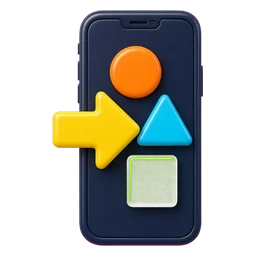
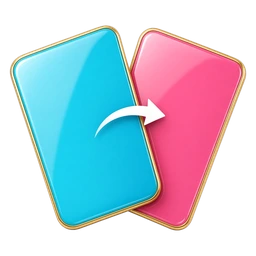
Mosaico Vila Ética: ícones 3D do Momento do Lazer, da memória, do Genius e do glossário (pasta Cell atualizada)
Os provisórios ficaram com o sufixo _SUBSTITUIDO_2026-11-14; origens em assets/icones/origens.json.

Claude-Session: https://claude.ai/code/session_01WHDQMuMbetW4TJGK2hXLga

diff --git a/mosaico-vila-etica/js/views/lazer.js b/mosaico-vila-etica/js/views/lazer.js
@@ -60,10 +60,10 @@ function exibicao(g, t) {
 export function renderLazer(st, id, loc) {
   const tipo = st.lazer?.tipo || "memoria", lz = loc.lz && loc.lz.tipo === tipo ? loc.lz : null, t = agora();
   const meu = st.lazer?.res?.[id]?.pontos || 0;
-  const cab = `<h2 class="row">${ico(tipo === "memoria" ? "lazer-memoria" : "lazer-genius", "g")}Momento do Lazer</h2>`;   // ícones provisórios (ver docs/ICONES-PROMPTS.md)
+  const cab = `<h2 class="row">${ico("lazer", "g")}Momento do Lazer</h2>`;
   if (!lz) {
     return cab + `<div class="card"><p class="muted" style="margin:0">Desde a Idade Média, o trabalho virou virtude e o ócio, vício (a preguiça): daí a dificuldade de aceitar o lazer. Aqui, o lazer também ensina.</p></div>
-      <div class="card"><b>${tipo === "memoria" ? `Jogo da memória: ${PARES_MEMORIA} pares` : `Genius: ${BOTOES_GENIUS} botões`}</b>
+      <div class="card"><b class="row">${ico(tipo === "memoria" ? "lazer-memoria" : "lazer-genius")}${tipo === "memoria" ? `Jogo da memória: ${PARES_MEMORIA} pares` : `Genius: ${BOTOES_GENIUS} botões`}</b>
       <p class="muted" style="margin:6px 0 0">${tipo === "memoria" ? "Ache os pares: cada termo com a sua pista. Os termos são os do glossário que a vila já abriu." : "Repita a sequência de cores. A cor de cada botão é uma categoria do glossário e fica fixa; o termo dentro dela muda a cada rodada."}</p>
       <p class="faint" style="margin:6px 0 0">Quem chega a ${ALVO_LAZER} ${tipo === "memoria" ? "pares" : "rodadas"} dá 1 ponto ao bem público da vila (menos, proporcional). Você tem ${TEMPO_LAZER} s.</p></div>
       <button class="btn ok block" data-a="lz-comecar">Começar</button>`;

diff --git a/mosaico-vila-etica/js/views/aluno.js b/mosaico-vila-etica/js/views/aluno.js
@@ -38,7 +38,7 @@ function telaGlossario(st, loc) {
       ${vs.map((v) => `<button class="glos-item ${loc.verb === v.id ? "aberto" : ""}" data-a="verb" data-val="${v.id}"><span class="row" style="gap:6px"><b>${esc(v.termo)}</b>${v.autor ? `<span class="faint">${esc(v.autor)}</span>` : ""}${novos.has(v.id) ? `<span class="novo">novo</span>` : ""}<span class="grow"></span><span aria-hidden="true">${loc.verb === v.id ? "▴" : "▾"}</span></span>${loc.verb === v.id ? `<span class="glos-def">${esc(v.def)}</span>` : ""}</button>`).join("")}</div>`;
   }).join("");
   const faltam = GLOSSARIO.length - abertos.length;
-  return `<h2 class="row">${ico("ideia", "g")}Glossário de ética</h2><p class="faint" style="margin:0">${abertos.length} verbetes abertos${faltam ? `; ${faltam} se abrem conforme a vila avança` : ""}. Toque num termo para ver a definição.</p>${grupos}
+  return `<h2 class="row">${ico("glossario", "g")}Glossário de ética</h2><p class="faint" style="margin:0">${abertos.length} verbetes abertos${faltam ? `; ${faltam} se abrem conforme a vila avança` : ""}. Toque num termo para ver a definição.</p>${grupos}
     <button class="btn ok block" data-a="glos">Voltar ao jogo</button>`;
 }
 

diff --git a/mosaico-vila-etica/js/views/telao.js b/mosaico-vila-etica/js/views/telao.js
@@ -456,7 +456,7 @@ export function paineisResultado(st) {
 function faixaConceitos(ids, extra = "") {
   const vs = ids.map(verbete).filter(Boolean);
   if (!vs.length) return "";
-  return `<div class="conceitos"><span class="conc-rot">${ico("ideia")}Conceitos</span>${vs.map((v) => `<span class="chip conceito" style="--c:${CATEGORIAS[v.cat]?.cor || "#a78bfa"}"><b>${esc(v.termo)}</b>${v.autor && !/\d/.test(v.autor) ? ` · ${esc(v.autor)}` : ""}</span>`).join("")}<span class="conc-fim">${extra || "no glossário do celular"}</span></div>`;
+  return `<div class="conceitos"><span class="conc-rot">${ico("glossario")}Conceitos</span>${vs.map((v) => `<span class="chip conceito" style="--c:${CATEGORIAS[v.cat]?.cor || "#a78bfa"}"><b>${esc(v.termo)}</b>${v.autor && !/\d/.test(v.autor) ? ` · ${esc(v.autor)}` : ""}</span>`).join("")}<span class="conc-fim">${extra || "no glossário do celular"}</span></div>`;
 }
 // Ética: o conceito de cada painel do "Como ficou a vila"
 function conceitoPainel(st, nome) {

diff --git a/mosaico-vila-etica/index.html b/mosaico-vila-etica/index.html
@@ -54,7 +54,7 @@
       <div class="passo"><img class="ico3 m" src="assets/icones/arvore-redonda.webp" alt=""><div><b>Ano 2</b>A mata comum</div></div>
       <div class="passo"><img class="ico3 m" src="assets/icones/sobrado.webp" alt=""><div><b>Ano 3</b>Moradia e aluguel</div></div>
       <div class="passo"><img class="ico3 m" src="assets/icones/balanca.webp" alt=""><div><b>Votação</b>Monopólio ou Prosperidade</div></div>
-      <div class="passo"><img class="ico3 m" src="assets/icones/lazer-genius.webp" alt=""><div><b>Lazer</b>Memória ou Genius com os conceitos</div></div>
+      <div class="passo"><img class="ico3 m" src="assets/icones/lazer.webp" alt=""><div><b>Lazer</b>Memória ou Genius com os conceitos</div></div>
       <div class="passo"><img class="ico3 m" src="assets/icones/lote-alfinete.webp" alt=""><div><b>Ano 4</b>Mercado de lotes</div></div>
       <div class="passo"><img class="ico3 m" src="assets/icones/meta.webp" alt=""><div><b>Ano 5</b>O último ano</div></div>
     </div>

diff --git a/mosaico-vila-etica/docs/ICONES-PROMPTS.md b/mosaico-vila-etica/docs/ICONES-PROMPTS.md
@@ -1,11 +1,10 @@
 # Ícones 3D
 
-## Pendentes agora (14/11/2026), em ordem de prioridade: 23 ícones
+## Pendentes agora (14/11/2026), em ordem de prioridade: 20 ícones
 Estilo de todos: ícone 3D brilhante, iluminação suave de estúdio, levemente de cima, cores saturadas, fundo branco liso para recortar, sem texto, 1024 × 1024.
 1. **Bem público, níveis 1 a 3** (`publico-1-praca`, `publico-2-posto`, `publico-3-academia`): aparecem no mapa da vila em toda tela de resultado e de decisão; hoje são desenhos simples, ao lado dos níveis 4 e 5 já em 3D. Prompts em "Para completar o bem público", abaixo.
 2. **Toco da mata** (`toco.webp`, provisório): aparece na mata a cada carga cortada. Prompt: toco de árvore cortada com anéis no topo, casca marrom e raízes curtas, sobre um pouco de grama; sem machado, tom de brinquedo.
-3. **Momento do Lazer e glossário** (itens 37 a 39, no fim): `lazer-memoria`, `lazer-genius`, `glossario`.
-4. **Cartas sorteadas** (16, itens 21 a 36): primeiro as que hoje repetem o mesmo ícone: toco (fiscal, madeireira, entulho), alvará (alvará, aterro), grupos (vizinho, carroça), moeda (taxa, pedido), cédula (achado, fiado), participar (extrato, sinal).
+3. **Cartas sorteadas** (16, itens 21 a 36): primeiro as que hoje repetem o mesmo ícone: toco (fiscal, madeireira, entulho), alvará (alvará, aterro), grupos (vizinho, carroça), moeda (taxa, pedido), cédula (achado, fiado), participar (extrato, sinal).
 
 ## Já no jogo (13/11/2026)
 - **Casas das famílias** (`casa-<cor>.webp`) e **casa neutra** dos lotes: a casa 3D da pasta Cell do autor, sem fundo e com as paredes na cor de cada família.
@@ -95,7 +94,10 @@ Estilo comum: ícone 3D brilhante, cantos arredondados, iluminação suave de es
 ## App
 20. `app-mosaico-vila.png` · Ícone do app "Mosaico Vila": três casinhas de cores diferentes em volta de uma árvore, sobre uma base redonda de grama, em verde e dourado.
 
-## Mosaico Vila Ética (14/11/2026): provisórios, com prompts para os definitivos
+## Mosaico Vila Ética (14/11/2026)
+- Resolvidos com a pasta Cell atualizada (14/11, noite): `lazer.webp` (guarda-sol, controle e bola: o Momento do Lazer), `lazer-memoria.webp` (duas cartas com seta), `lazer-genius.webp` (disco de Genius) e `glossario.webp` (livro aberto azul). Os provisórios ficaram com o sufixo `_SUBSTITUIDO_2026-11-14`. Os prompts abaixo ficam como registro.
+
+### Prompts originais (já resolvidos)
 Estilo comum da lista original (ícone 3D brilhante, iluminação suave de estúdio, levemente de cima, cores saturadas, fundo branco liso para recortar, sem texto, 1024 × 1024). Salvar em `mosaico-vila-etica/assets/icones/`.
 37. `lazer-memoria.webp` (hoje cópia de `participar`) · Momento do Lazer, jogo da memória: quatro cartas de baralho em leque, duas viradas mostrando um livro aberto e uma balança dourada, duas de costas com um ponto de interrogação em relevo.
 38. `lazer-genius.webp` (hoje cópia de `simulador`) · Momento do Lazer, Genius: um disco redondo de brinquedo com oito gomos coloridos (azul, ciano, verde, rosa-vermelho, âmbar, lilás, laranja, pink), um deles aceso e brilhando.

diff --git a/mosaico-vila-etica/docs/PROJETO.md b/mosaico-vila-etica/docs/PROJETO.md
@@ -301,3 +301,4 @@ No fim do ano 3, o motor guarda a vila (`snap3`). No fechamento, `contrafactual(
 - **Slider** (bem público, replantio e lance): o redesenho do celular recriava o slider no meio do arrasto, e o arrasto parava depois do primeiro passo (no PC e no toque). Agora o redesenho espera o dedo sair e só o número ao lado acompanha (`js/ui.js`, `data-eco`). O slider ganhou trilho afundado, parte preenchida e botão 3D que afunda ao arrastar, com 32 px no celular.
 - **iPhone**: o Safari só aplica o `:active` com um ouvinte de toque na página; sem ele, nenhum botão afundava ao toque. Entrou o ouvinte em `js/ui.js` e `ontouchstart` na página inicial; o realce cinza do toque saiu e o brilho de hover ficou só para mouse (no iPhone ele grudava depois do toque).
 - **Lazer**: as cartas da memória e os botões do Genius crescem até ocupar a altura do celular (no celular pequeno, o tamanho de antes).
+- **Ícones do lazer e do glossário** (pasta Cell atualizada): o Momento do Lazer ganhou o guarda-sol com controle (cabeçalho do celular e página inicial); memória e Genius, as cartas com seta e o disco de Genius; o glossário e a faixa de conceitos do telão, o livro aberto.
